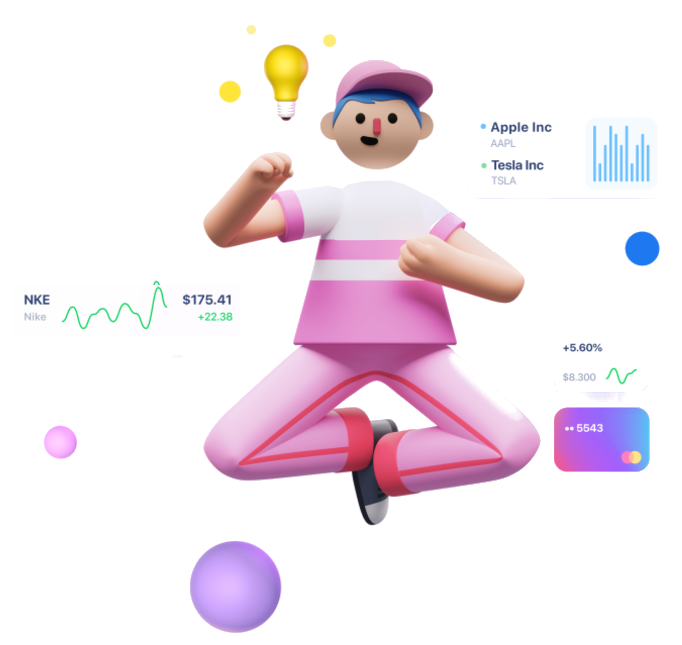
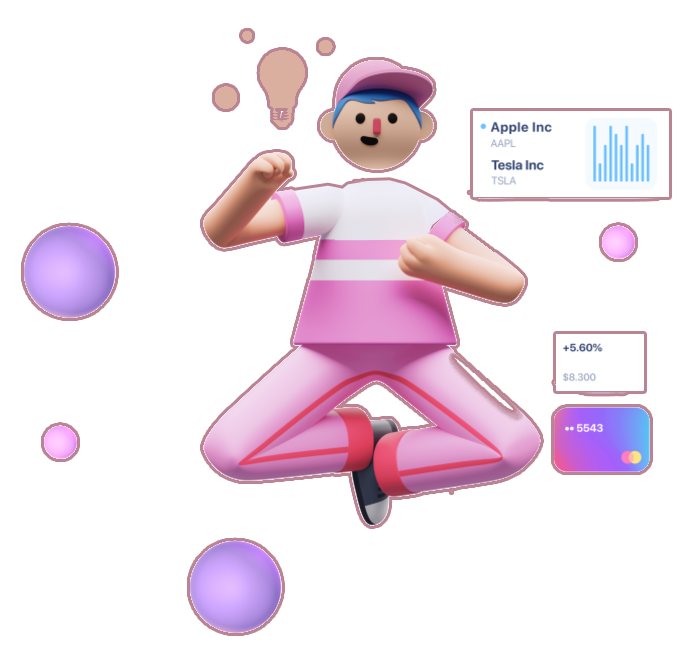
up

diff --git a/css/style.css b/css/style.css
@@ -4,10 +4,16 @@
 } */
 
 
-img{
+.main-desine{
+    width: 100%;
+    text-align: right;
+    
+}
+
+.main-desine img{
     width: calc(1.5*600px);
     height: calc(1.5*600px);
-    margin-left: calc(1.5*200px);
+    margin-left: calc(1.5*100px);
     margin-top: -90px;
 }
 
@@ -26,7 +32,7 @@ img{
  
 .menu a{
     text-decoration: none;
-    color: #d1d6e0;
+    color: #bb8493;
     padding-right: 35px;
     
 }
@@ -36,18 +42,32 @@ img{
     font-weight: 900;
 }
 
+.active:after{
+content: '';
+background-color: #1e78f0;
+transform: translateX(-50%);
+width: 10px;
+height: 10px;
+left: 50%;
+bottom: -10px;
+position: absolute;
+border-radius: 50%;
+}
+
 .button{
 text-decoration: none;
 color: #fff;
-padding: 6px 45px;
-background-color: #333333;
+padding: 3px 20px;
+background-color: #a0dbaf;
 border-radius: 12px;
 text-align: center;
-margin-top: 10px;
-margin-bottom: 8px;
-font-weight: 600;
+margin-top: 15px;
+margin-bottom: 15px;
+font-weight: 900;
 margin-right: 50px;
 font-size: 22px;
+    cursor: pointer;
+
 }
 
 .main-nav a{
@@ -58,7 +78,7 @@ font-size: 22px;
 .main-nav{
 display: flex;
 justify-content: space-between;
-background-color: #f8fbfb;
+background-color: #dbafa0;
 }
 
 
@@ -67,12 +87,13 @@ h1{
     font-weight: 900;
     font-size: calc(1.5*4rem);
     font-family: helvetica;
+    color: #704264;
 
 }
 
 
 .money-melyna{
-    color: #1e78f0;
+    color: #bb8493;
 }
 
 
@@ -96,13 +117,18 @@ i{
 .get-text{
     font-weight: 300;
     margin-left: 0.5rem;
-    color: #afc3e5;
-    font-size: 18px;
+    color: #bb8493;
+    font-size: 16px;
+
   
 }
 
+.lygiuote-get i {
+    color: yellow;
+}
+
 .text-gray {
-    color: #98aacc;
+    color: #dbafa0;
     font-size: calc(1.5*1rem);
 }
 
@@ -121,14 +147,16 @@ i{
 
 
 .main-kaire {
-    margin-right: 200px;
+    margin-right: 25px;
 }
 
 .button-1{
-    color: #fff;
-    background-color: #1e78f0;
+justify-content: space-between;
+color: #fff;
+    background-color: #a0dbaf;
+    margin-right: 25px;
     border-radius: 10px;
-    padding: 30px 45px;
+    padding: 15px 45px;
     border: none;
     cursor: pointer;
     font-size: 20px;
@@ -141,9 +169,14 @@ i{
     border: 1px solid lightgray;
 }
 
+
+.main-buttons{
+    display: flex;
+}
+
 footer{
     text-align: right;
-    background-color: #f8fbfb;
+    background-color: #dbafa0;
     padding: 25px;
     font-weight: 500;
   
@@ -235,20 +268,27 @@ padding-bottom: 25px;
 }
 
 .brand-list{
-    border-bottom: 2px solid #d1d6e0;
+    background-color: #704264;    ;
+    border-bottom: 2px solid #bb8493;
+    border-top: 2px solid #bb8493;
+
 
 }
 
 .brand-list img{
     width: 40%;
     height: 40%;
-   margin-left: 720px;
+   margin-left: 650px;
+   border: 500px red;
+
     
 }
 
 body{
     width: 100%;
     overflow-x: hidden;
+    background: rgb(73,36,62);
+background: linear-gradient(90deg, rgba(73,36,62,1) 20%, rgba(112,66,100,1) 40%, rgba(187,132,147,1) 60%, rgba(219,175,160,1) 80%);
 }
 
 .main-footer{
@@ -260,12 +300,12 @@ body{
 }
 
 .main-footer i{
-    color: #afc3e5;
+    color: #bb8493;
     margin-right: 25px;
 }
 
 .main-footer p{
-    color: #000000;
+    color: #bb8493;
     margin-right: 25px;
     font-size: 18px;
     font-weight: 500;
@@ -277,6 +317,13 @@ body{
 }
 
 .crazy{
-    color: red;
-    border: 5px solid red;
+    color: #bb8493;
+    border: 5px solid #bb8493;
+    
+}
+
+.socials i:hover{
+    background-color: #704264
+    ;
+    color: #fff;
 }

diff --git a/index.html b/index.html
@@ -56,7 +56,7 @@
           <a href="#">Pricing</a>
         </div>
       </header>
-      <a class="button" href="#">Try for free</a>
+      <button class="button" href="#">Try for free</button>
     </div>
 
     <main>
@@ -143,7 +143,7 @@
 
     <footer>
       <div class="main-footer">
-        <div>
+        <div class="socials">
           <a href="#"><i class="fab fa-facebook fa-2x"></i></a>
           <a href="#"><i class="fab fa-twitter fa-2x"></i></a>
           <a href="#"><i class="fab fa-youtube fa-2x"></i></a>
